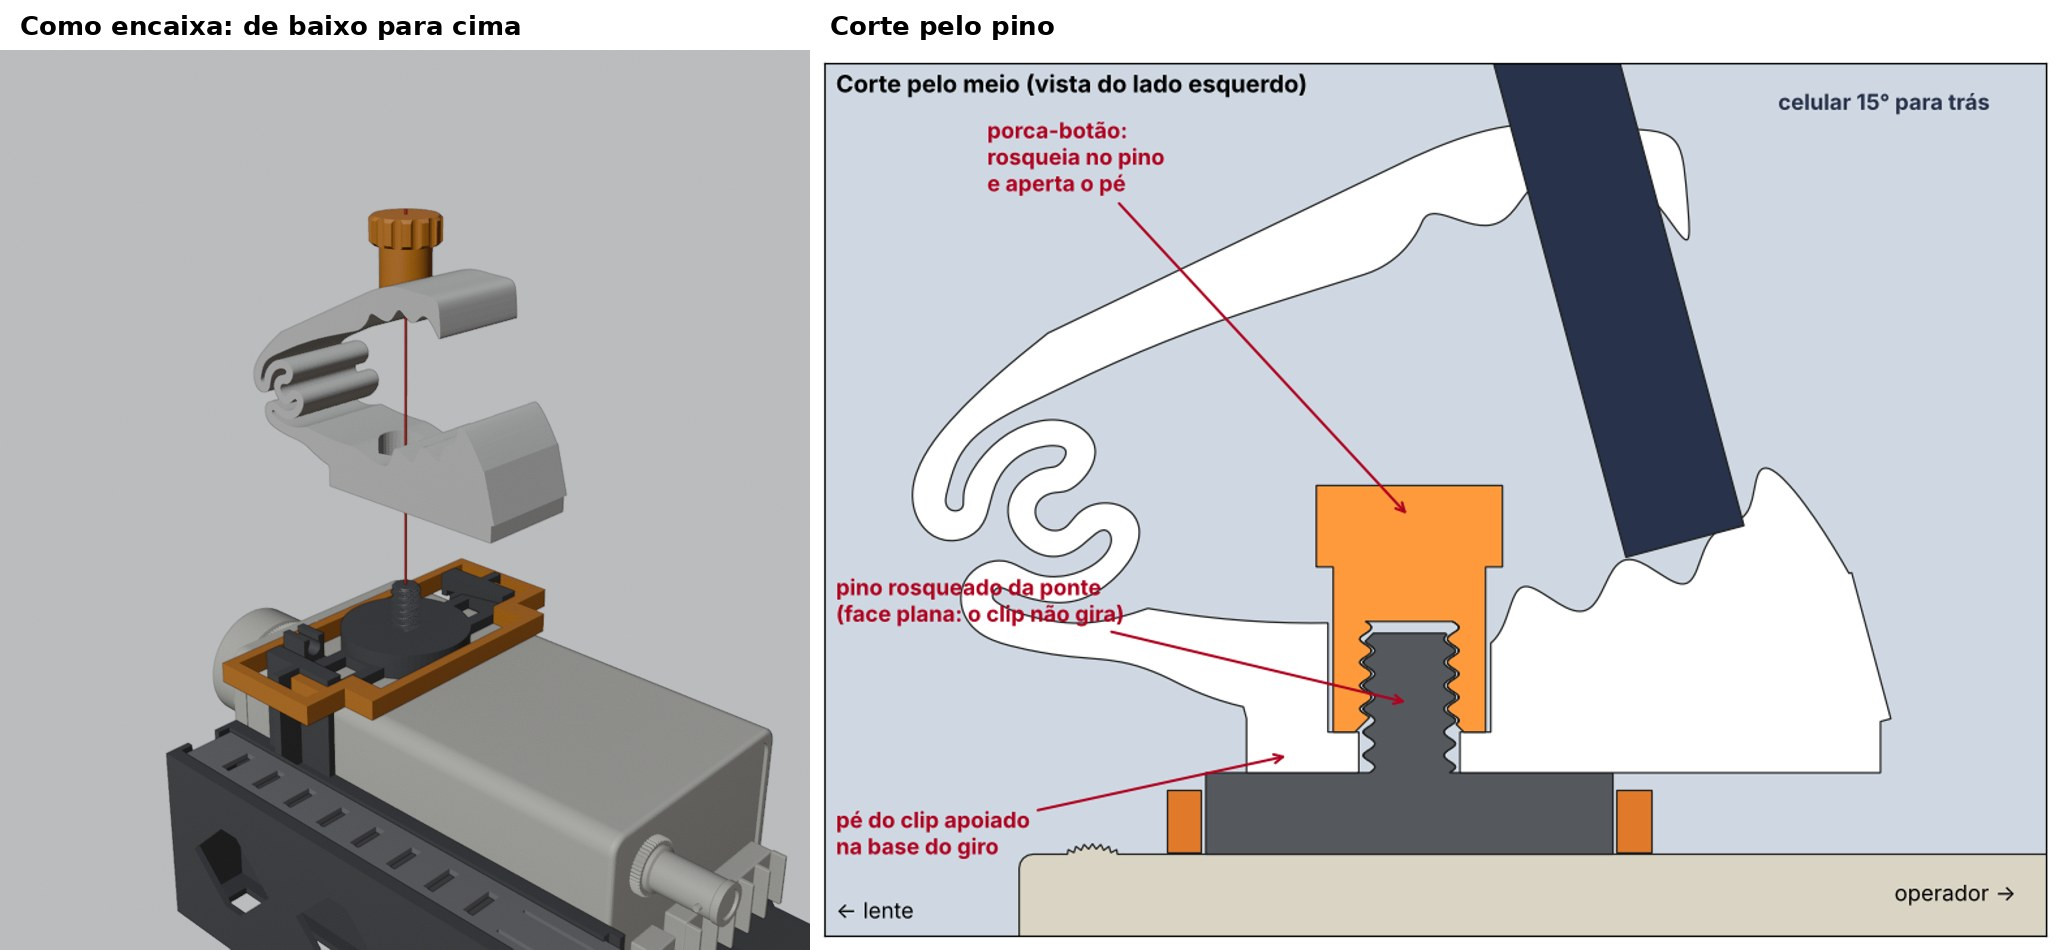
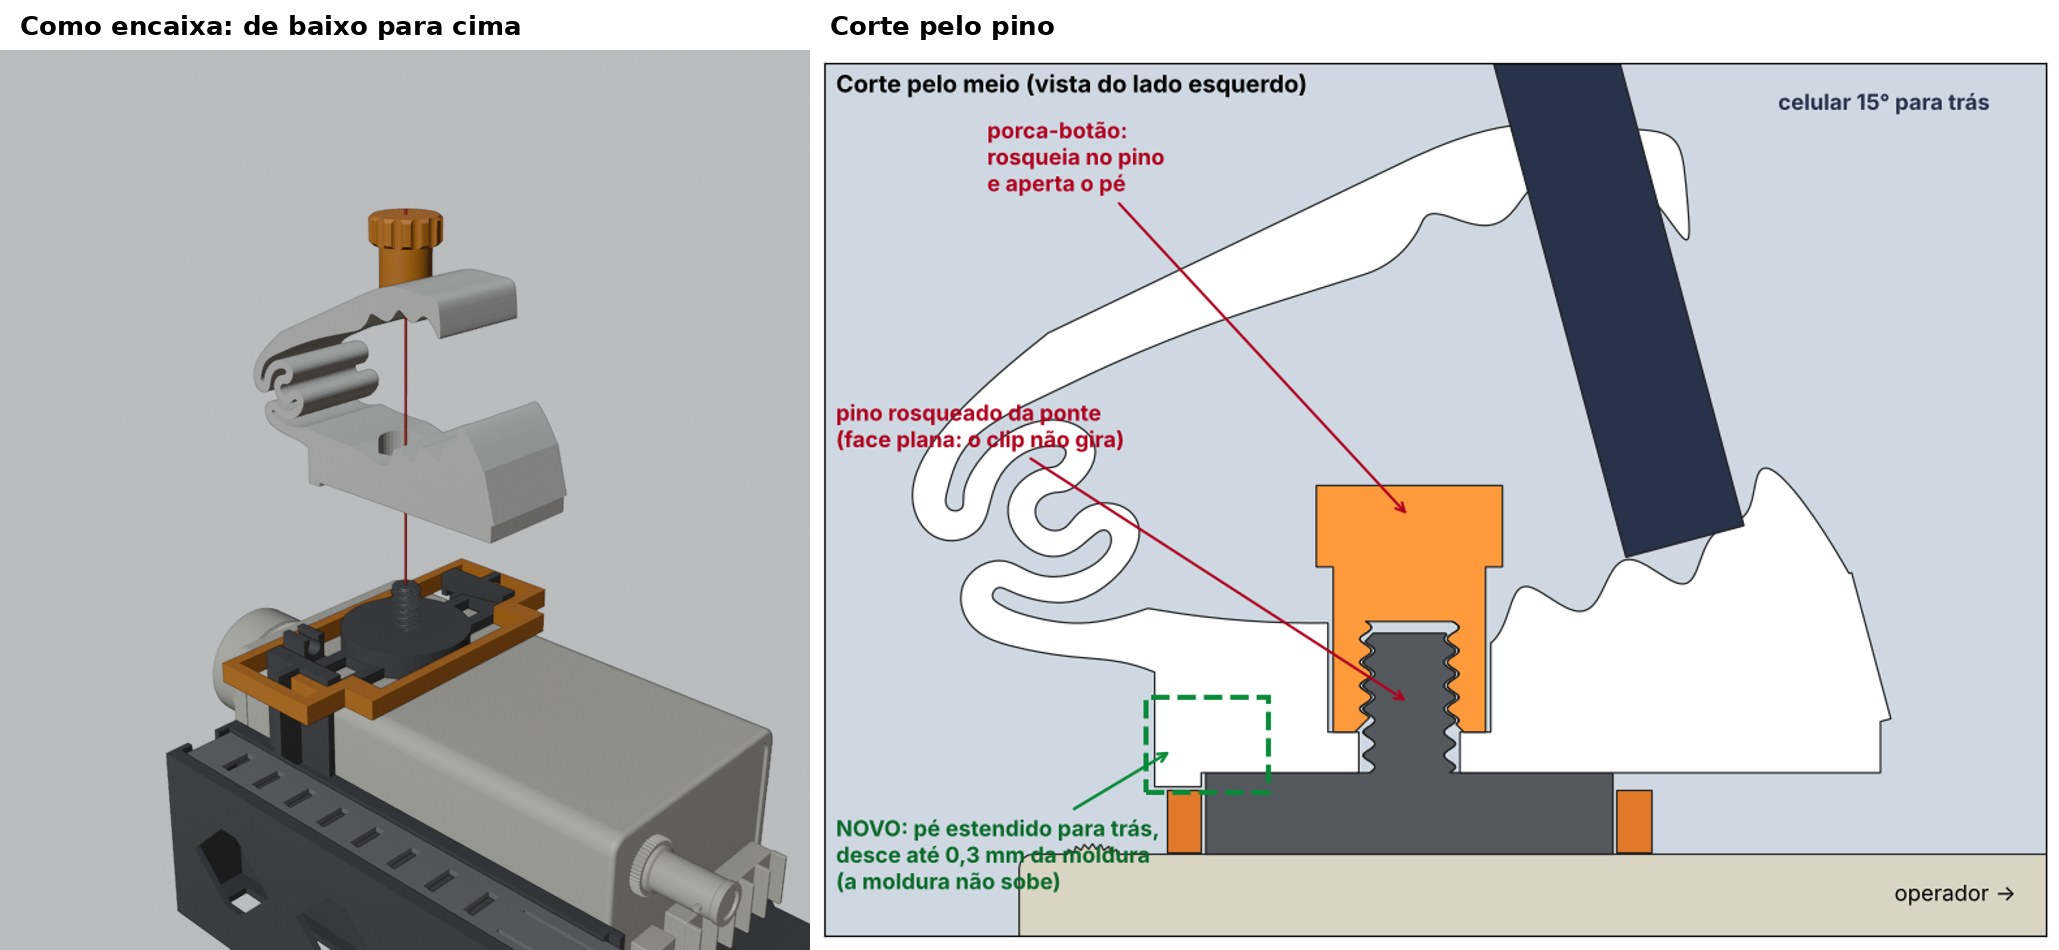
Pé do clip estendido sobre a barra da frente da trava da ponte
A aba desce até 0,3 mm da moldura, então ela não sobe com o clip montado.

diff --git a/docs/SUPORTE_CLIP.md b/docs/SUPORTE_CLIP.md
@@ -11,6 +11,7 @@ O clip é o [Ultimate Desk & Cockpit Phone Holder Clip v3](https://makerworld.co
 - **A garra de baixo,** que prendia o clip no painel do carro, foi tirada.
 - **No lugar dela entra um pé,** com furo em D que encaixa no pino do giro. A face plana do pino impede o clip de girar.
 - **Uma porca-botão** rosqueia no pino por cima e aperta o pé contra a base.
+- **Trava da ponte presa:** atrás (lado da lente), o pé passa por cima da barra da frente da moldura e desce até 0,3 mm dela, então a moldura não sobe.
 - **Inclinação:** o corpo do clip é inclinado 15° em cima do pé, que continua reto na base. Para mudar, altere `CL_INC` no `.scad`.
 
 ## O arquivo do clip não vem neste projeto
@@ -35,7 +36,7 @@ O arquivo gerado é só para uso pessoal.
 
 | Peça | Material | Configuração | Filamento* |
 |---|---|---|---|
-| Clip (`PART="clip"`) | **PETG** | Deitado, com o perfil na mesa. Camada de 0,2 mm, 3 paredes, 25 % de preenchimento, sem suporte. | ~30 g |
+| Clip (`PART="clip"`) | **PETG** | Deitado, com o perfil na mesa. Camada de 0,2 mm, 3 paredes, 25 % de preenchimento, sem suporte. | ~31 g |
 | Porca-botão (`PART="porca_clip"`) | PLA | Botão na mesa. Mesma configuração das porcas (mesa 4): camada de 0,12 mm, 5 paredes, 40 %. | ~3 g |
 
 \* Estimativa. O fatiador mostra o peso exato.
@@ -63,7 +64,9 @@ O arquivo gerado é só para uso pessoal.
 
 ## Conferido no computador
 
-- **Interferências:** o clip não bate na câmera nem na trava da ponte. Ficam 7 mm até o topo da câmera e 1,5 mm até a moldura.
+- **Interferências:** o clip não bate na câmera nem na trava da ponte.
+  - Ficam 5,8 mm até o topo da câmera.
+  - Atrás, a aba do pé fica 0,3 mm acima da barra da moldura e 0,4 mm da borda da base do giro.
 - **Folgas:**
   - furo em D no pino: 0,2 mm;
   - porca-botão no rebaixo: 0,4 mm;

diff --git a/docs/COMO_IMPRIMIR.md b/docs/COMO_IMPRIMIR.md
@@ -11,7 +11,7 @@ As mesas da pasta `mesas/` foram montadas para a **Anycubic Kobra X** (mesa de 2
 | 4 | `4_parafusos_PLA.3mf` | PLA | ~12 g |
 | 5 | `5_trava_ponte_PETG.3mf` | PETG (ou PLA) | ~6 g |
 | 6 | `6_trava_celular_PLA.3mf` | PLA | ~20 g |
-| 7 | clip do celular (opção fixa, [gere você mesmo](SUPORTE_CLIP.md)) | PETG | ~30 g |
+| 7 | clip do celular (opção fixa, [gere você mesmo](SUPORTE_CLIP.md)) | PETG | ~31 g |
 | 8 | `8_porca_clip_PLA.3mf` (opção fixa) | PLA | ~3 g |
 
 Na opção fixa com o clip, não precisa de garfo, braço, garra e mordente (mesa 3), da mesa 6 nem dos parafusos da articulação (mesa 4). A chave do cabo, que também sai na mesa 4, continua necessária.
